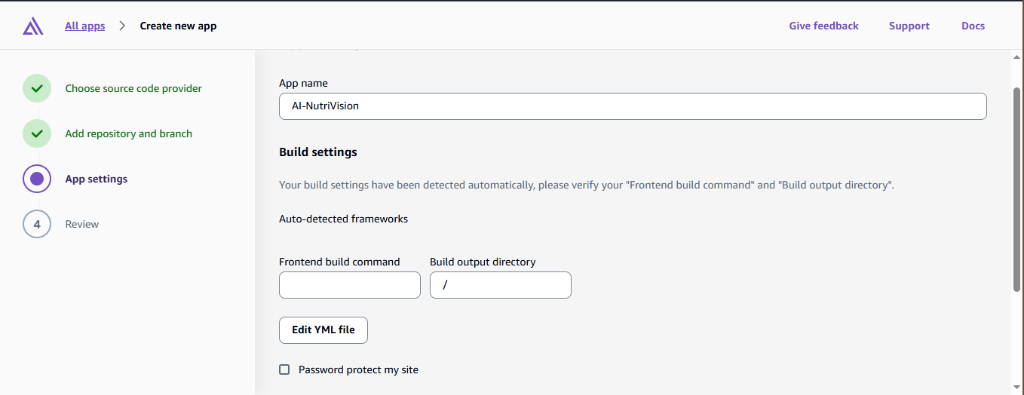
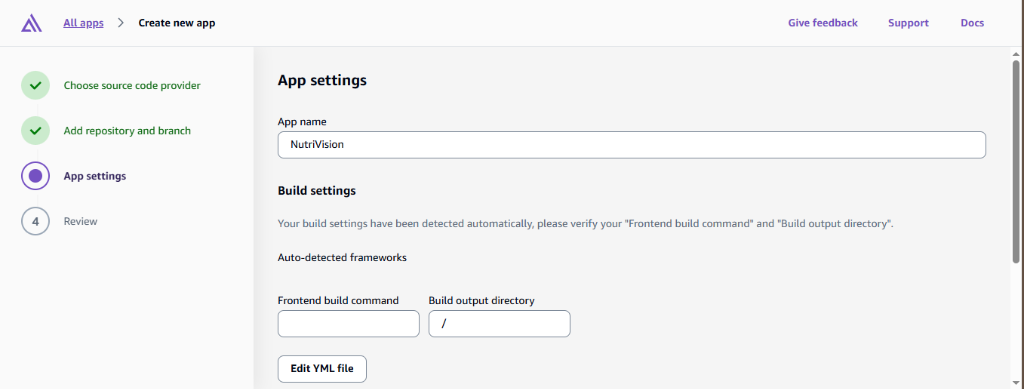
Update Amplify App name to NutriVision with new App settings screenshot

diff --git a/content/5-Workshop/5.4-Serverless-Deployment/5.4.4-host-amplify/_index.vi.md b/content/5-Workshop/5.4-Serverless-Deployment/5.4.4-host-amplify/_index.vi.md
@@ -26,7 +26,7 @@ Push toàn bộ mã nguồn lên repository GitHub của bạn (`https://github.
 ![Chọn Repository và nhánh trên AWS Amplify](/FCAJ-Project/images/5-Workshop/5.4-S3-onprem/amplify_select_repo_branch.png)
 
 4. Tại bước **App settings**:
-   - **App name**: Nhập `AI-NutriVision`.
+   - **App name**: Nhập `NutriVision`.
    - **Frontend build command**: Để trống (ứng dụng Web tĩnh HTML/CSS/JS thuần).
    - **Build output directory**: Nhập `/`.
 
@@ -37,7 +37,7 @@ Push toàn bộ mã nguồn lên repository GitHub của bạn (`https://github.
 ![AWS Amplify Review and Save and Deploy](/FCAJ-Project/images/5-Workshop/5.4-S3-onprem/amplify_step2_save_deploy.png)
 
 #### 3. Truy cập đường dẫn Web Public HTTPS:
-1. Sau khi quá trình Build & Deploy hoàn tất (khoảng 30 giây), màn hình quản lý **AI-NutriVision: Overview** hiển thị trạng thái phát hành thành công kèm nút **Visit deployed URL**.
+1. Sau khi quá trình Build & Deploy hoàn tất (khoảng 30 giây), màn hình quản lý **NutriVision: Overview** hiển thị trạng thái phát hành thành công kèm nút **Visit deployed URL**.
 
 ![AWS Amplify Overview - Visit deployed URL](/FCAJ-Project/images/5-Workshop/5.4-S3-onprem/amplify_step3_visit_deployed_url.png)
 

diff --git a/content/5-Workshop/5.4-Serverless-Deployment/5.4.4-host-amplify/_index.md b/content/5-Workshop/5.4-Serverless-Deployment/5.4.4-host-amplify/_index.md
@@ -26,7 +26,7 @@ Push the frontend source files to your GitHub repository (`https://github.com/iu
 ![AWS Amplify Select Repository and Branch](/FCAJ-Project/images/5-Workshop/5.4-S3-onprem/amplify_select_repo_branch.png)
 
 4. On the **App settings** step:
-   - **App name**: Enter `AI-NutriVision`.
+   - **App name**: Enter `NutriVision`.
    - **Frontend build command**: Leave empty (pure static HTML/CSS/JS).
    - **Build output directory**: Enter `/`.
 
@@ -37,7 +37,7 @@ Push the frontend source files to your GitHub repository (`https://github.com/iu
 ![AWS Amplify Review and Save and Deploy](/FCAJ-Project/images/5-Workshop/5.4-S3-onprem/amplify_step2_save_deploy.png)
 
 #### 3. Access Public HTTPS Deployed Endpoint:
-1. Once the automated build and deployment finishes (approximately 30 seconds), the **AI-NutriVision: Overview** page displays the deployed status with the **Visit deployed URL** button.
+1. Once the automated build and deployment finishes (approximately 30 seconds), the **NutriVision: Overview** page displays the deployed status with the **Visit deployed URL** button.
 
 ![AWS Amplify Overview - Visit deployed URL](/FCAJ-Project/images/5-Workshop/5.4-S3-onprem/amplify_step3_visit_deployed_url.png)
 

diff --git a/content/5-Workshop/5.6-Cleanup/_index.md b/content/5-Workshop/5.6-Cleanup/_index.md
@@ -51,7 +51,7 @@ To prevent unexpected ongoing cloud charges after completing the workshop, follo
 
 #### 5. Delete AWS Amplify App (Frontend Hosting):
 1. Open [AWS Amplify Console](https://ap-southeast-1.console.aws.amazon.com/amplify/home?region=ap-southeast-1).
-2. Select application `AI-NutriVision` (or `NutriVision`).
+2. Select application `NutriVision`.
 3. Click **App actions ➔ Delete app** (or **App settings ➔ General settings ➔ Delete app**) ➔ Enter `delete` to confirm web app removal.
 
 ![Delete AWS Amplify App](/FCAJ-Project/images/5-Workshop/5.6-Cleanup/cleanup_amplify.png)

diff --git a/content/5-Workshop/5.6-Cleanup/_index.vi.md b/content/5-Workshop/5.6-Cleanup/_index.vi.md
@@ -51,7 +51,7 @@ pre: " <b> 5.6. </b> "
 
 #### 5. Xóa AWS Amplify App (Frontend Hosting):
 1. Mở [AWS Amplify Console](https://ap-southeast-1.console.aws.amazon.com/amplify/home?region=ap-southeast-1).
-2. Chọn ứng dụng `AI-NutriVision` (hoặc `NutriVision`).
+2. Chọn ứng dụng `NutriVision`.
 3. Nhấp **App actions ➔ Delete app** (hoặc **App settings ➔ General settings ➔ Delete app**) ➔ Nhập `delete` để xác nhận gỡ bỏ ứng dụng Web.
 
 ![Xóa AWS Amplify App](/FCAJ-Project/images/5-Workshop/5.6-Cleanup/cleanup_amplify.png)
